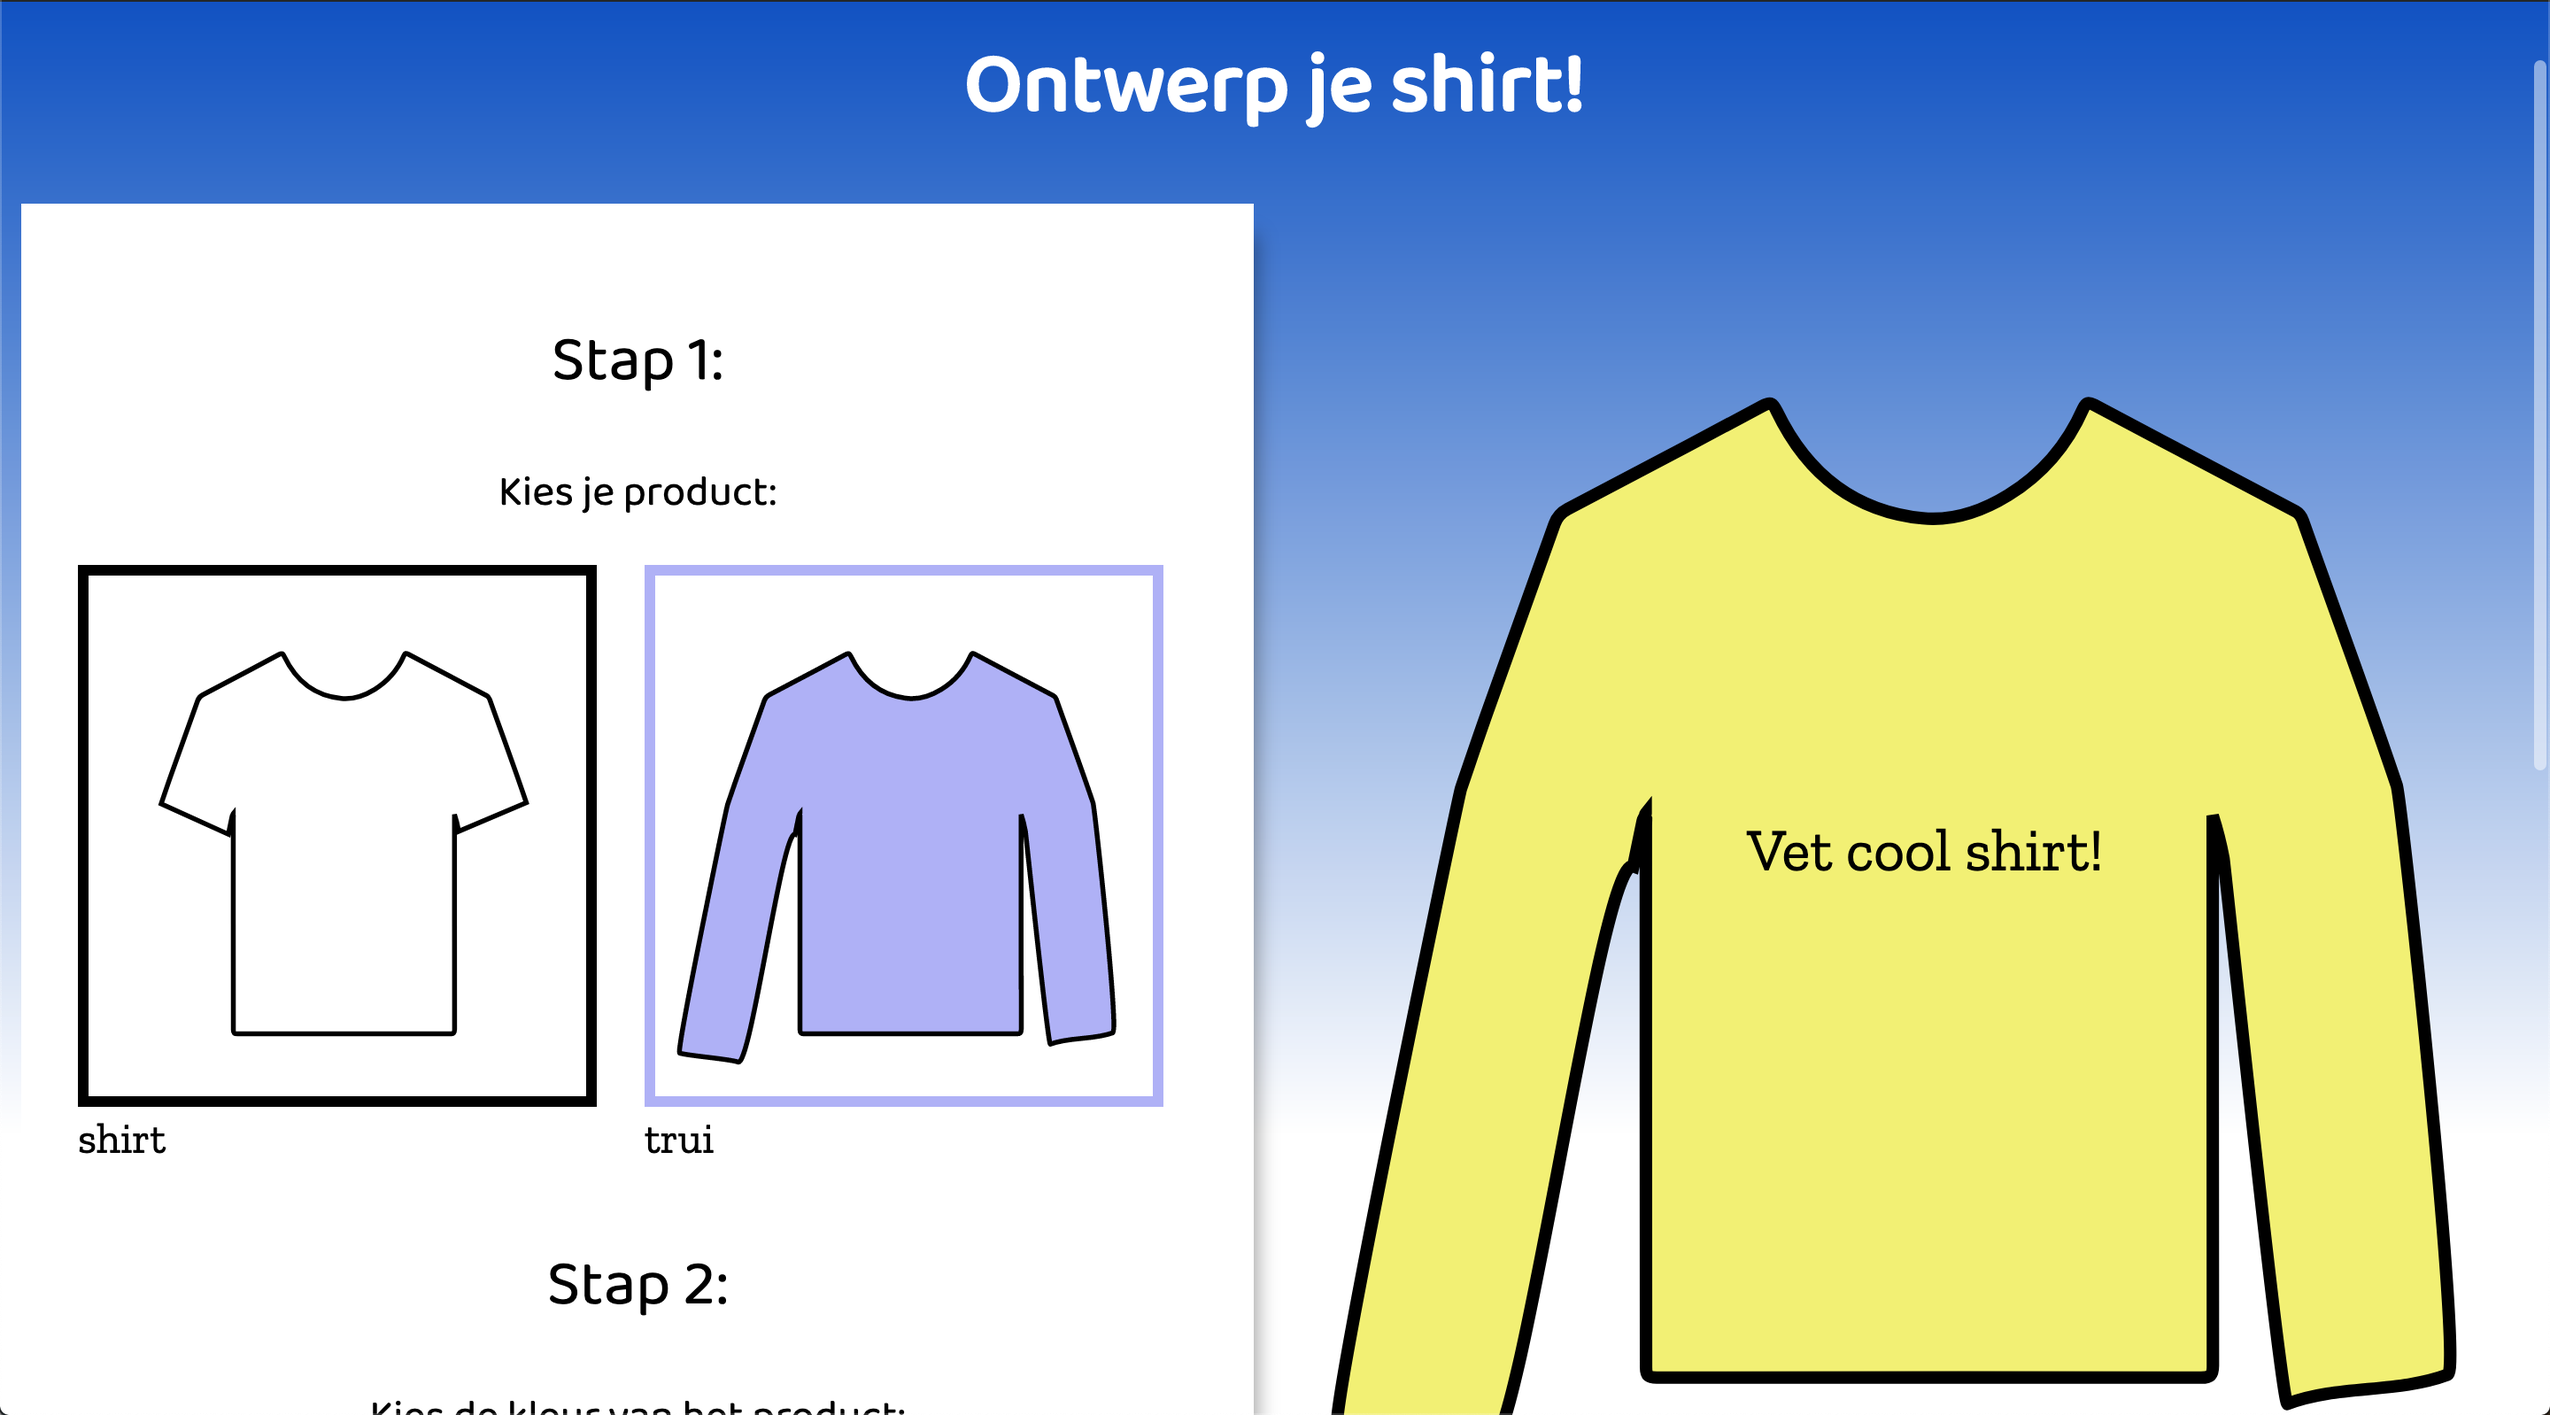
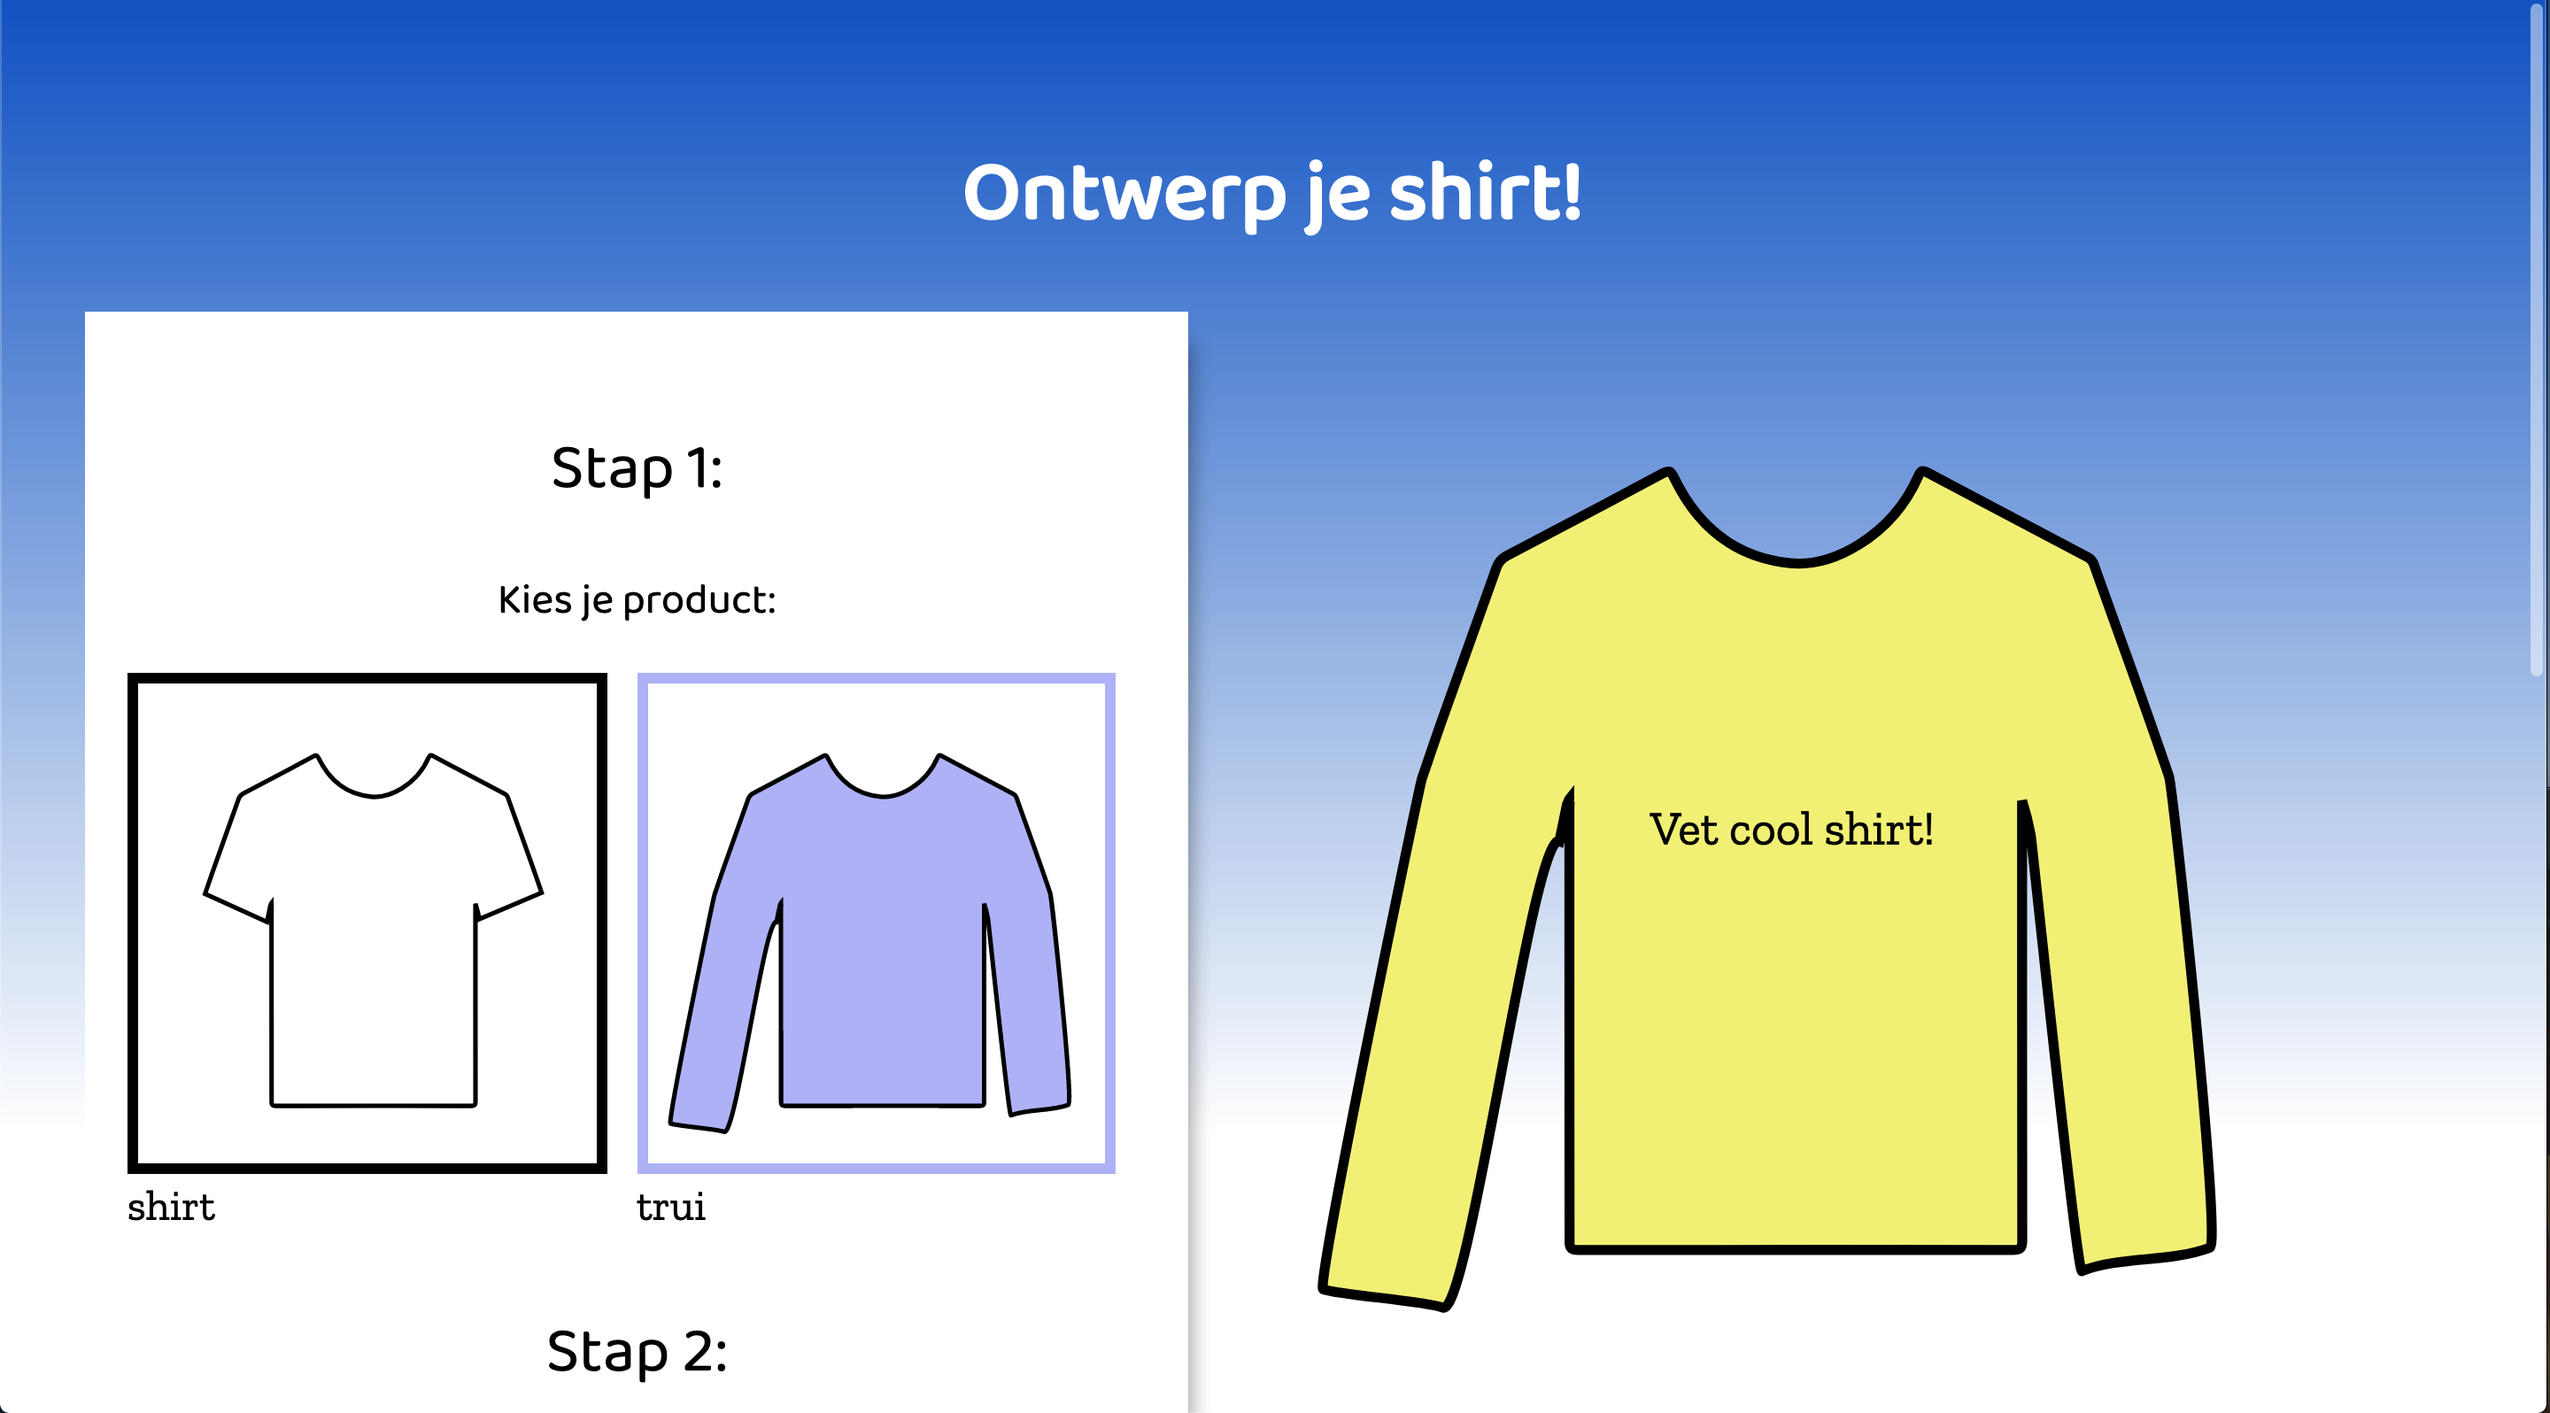
add readme text

diff --git a/public/index.js b/public/index.js
@@ -10,20 +10,19 @@ function jsAvailable() {
 
 // show some styling only when js is activated
 function jsStyling() {
-    const group = document.querySelector('.group')
-    const saveButton = document.querySelector('#save')
-    const orderButton = document.querySelector('#order')
+    var group = document.querySelector('.group')
+    var saveButton = document.querySelector('#save')
+    var orderButton = document.querySelector('#order')
 
     saveButton.style.display = 'none'
     orderButton.style.display = 'none'
 
     group.style.flexWrap = 'nowrap'
-
 }
 
 //window.print() feature detection
 function printAvailable() {
-    const buttons = document.querySelector('.groupButton')
+    var buttons = document.querySelector('.groupButton')
 
     if (typeof window.print != 'undefined') {
         console.log('yeah, we kunnen printen!')
@@ -112,16 +111,16 @@ if (storageAvailable('localStorage')) {
     console.log('Too bad, no localStorage for us')
 
     // when there's no localstorage, show the save button
-    const saveButton = document.querySelector('#save')
+    var saveButton = document.querySelector('#save')
     saveButton.style.display = 'block'
 
 }
 
 // show selected shirt or trui
 function shirtPreview() {
-    const preview = document.querySelector('.preview')
-    const shirt = document.querySelector('.previewShirt')
-    const trui = document.querySelector('.previewTrui')
+    var preview = document.querySelector('.preview')
+    var shirt = document.querySelector('.previewShirt')
+    var trui = document.querySelector('.previewTrui')
 
     preview.style.display = 'initial'
     shirt.style.display = 'block'
@@ -150,8 +149,8 @@ function shirtPreview() {
 
 // Change color of shirt or trui
 function changeColor() {
-    const shirtPreview = document.querySelector('.previewShirt')
-    const truiPreview = document.querySelector('.previewTrui')
+    var shirtPreview = document.querySelector('.previewShirt')
+    var truiPreview = document.querySelector('.previewTrui')
 
     for (i = 0; i < document.querySelectorAll('input[name=stap2]').length; i++) {
         document.querySelectorAll('input[name=stap2]')[i].addEventListener('click', function () {
@@ -207,8 +206,8 @@ function changeText() {
 
 // Change text of shirt or trui
 function changeTextColor() {
-    const textShirt = document.querySelector('#textShirt')
-    const textTrui = document.querySelector('#textTrui')
+    var textShirt = document.querySelector('#textShirt')
+    var textTrui = document.querySelector('#textTrui')
 
     for (i = 0; i < document.querySelectorAll('input[name=stap4]').length; i++) {
         document.querySelectorAll('input[name=stap4]')[i].addEventListener('click', function () {

diff --git a/public/style.css b/public/style.css
@@ -24,7 +24,7 @@ h1 {
 .form,
 .orderConfirmed {
     background-color: white;
-    width: 45%;
+    width: 40%;
     padding: 16px;
     padding: 1em;
     margin: 0 auto;
@@ -67,6 +67,13 @@ label {
     flex-direction: column;
 }
 
+label.shirt,
+label.trui {
+    width: 50%;
+    margin: 0 auto;
+    text-align: center;
+}
+
 #shirt,
 #trui,
 #blauw,
@@ -87,7 +94,8 @@ label {
 /*---add new radio button styling ---*/
 #shirt+svg,
 #trui+svg {
-    width: 90%;
+    margin: 0 auto;
+    width: 70%;
     cursor: pointer;
     border: 4px solid;
     border: 0.25em solid;
@@ -289,7 +297,7 @@ button:focus {
 
 .orderConfirmed {
     align-items: center;
-    width: 60%;
+    width: 40%;
 }
 
 .svg {
@@ -348,7 +356,7 @@ a:focus {
 .previewTrui,
 .previewShirt {
     display: none;
-    width: 100%;
+    width: 80%;
     fill: white;
     -webkit-transition: all 0.3s ease-in-outs;
     transition: all 0.3s ease-in-out;

diff --git a/README.md b/README.md
@@ -2,39 +2,198 @@
 
 //Robuuste, toegankelijke websites ontwerpen en maken …
 
-## Opdracht 2 - Progressive Enhanced Browser Technologie
-
-# Feedback vrijdag 20 maart
-
-link naar [demo](https://monikaas-browser-techt.herokuapp.com/)
-
-Momenteel ben ik bezig met mijn css only laag(nog niet af). Keuzes die je maakt worden wel al opgeslagen.
-
-1. Ik ben nu bezig om met de radio buttons :checked de shirt previews te laten zien, je kan kiezen uit een trui en een shirt. Nu probeer ik ook nog is de kleur aan te passen. Het selecteren van shirt en trui is gelukt, nu probeer ik ook nog is daarboven op er voor te zorgen dat je van beide de kleur kan aanpassen. Graag hoor ik hoe ik dat het beste kan aanpakken.
-2. Bijvoorbeeld bij shirt preview, heeft een screenreader gebruiker geen idee wat hij ziet. Hoe kan ik dat het beste aanpakken? Ik zat zelf te denken om ergens een samenvattende tekst neer te zetten met wat de gebruiker heeft geselecteerd en die dan niet zichtbaar is. Ik vraag mij alleen af of dit de juiste aanpak is
-3. Feedback of mijn html semantisch correct is
-
 # Create your own shirt
 
-Mijn case is het ontwerpen van je eigen shirt met tekst, je moet het kunnen printen, opslaan en een volgende keer dat je de site bezoekt kunnen gebruiken.
+Ontwerp je eigen shirt met tekst, je moet het kunnen printen, opslaan en een volgende keer dat je de site bezoekt weer verder kunnen gaan met waar je was gebleven.
 
-![met afbeelding](docs/img/totnu.png)
+![met afbeelding](docs/img/pleasurable.png)
 
-# wireflow
+# Progressive enhancement
+
+## functional laag
+![functional layer](docs/img/functional.jpg)
+
+In de functional laag gebruik ik alleen html. Het ziet er niet mooi uit, maar hij werkt in alle browsers!
+
+De gebruiker moet de meest basic functionaliteit kunnen uitvoeren. In dit geval een kleur uitkiezen en een tekst invoeren voor het shirt.
+
+ ![functional layer](docs/img/functional2.png)
+De gebruiker kan ook zijn keuzes op de server op slaan en de preview van zijn samen gestelde shirt bekijken.
+
+## usable laag
+In deze laag heb ik css toegevoegd, zodat het voor de gebruiker wat gebruiksvriendelijker wordt. inputs zijn gestijld & css animaties zijn toegevoegd. 
+
+Kwa functionaliteiten werkt het precies nog het zelfde als de functional layer.
+
+![functional layer](docs/img/usable.png)
+
+![functional layer](docs/img/usable2.png)
+
+![functional layer](docs/img/usable3.png)
+
+## pleasurable laag
+
+Gebruiker krijgt meteen een preview te zien, waneer hij iets selecteerd. Je krijgt ook een printkop te zien, als je er op klikt kan je de pagina uit printen. Opslaan knop is weg, want nu wordt alles onchange opgeslagen in localstorage.
+
+Als localstorage niet gesuport wordt, komt de save knop terug.
+
+![functional layer](docs/img/pleasurable.png)
+![pleasurable layer](docs/img/pleasurable2.png)
+
+
+
+# Feature detection
+
+## css
+
+**1. gradients:**
+
+ik maak gebruik van een gradient op de background, [meeste browser ondersteunen dit wel]([https://www.google.com](https://caniuse.com/#feat=css-gradients)). 
+
+Maar als een browser dit niet ondersteunt gebruikt die de fallback naar 1 solide background color.
+```css
+background-color: rgb(9, 78, 197); /*--fallback--*/
+    background-image: linear-gradient(180deg, rgb(9, 78, 197) 0%, rgb(255, 255, 255) 80%);
+```
+
+**2. em value:**
+
+Als values maak ik gebruik van em, dit wordt alleen [niet ondersteunt in hele oude browsers zoals IE 8](https://caniuse.com/#search=rem) 
+
+Om het op te lossen kun je een fallback gebruiken die pixels gebruikt als value.
+
+```css
+font-size: 20px; /*--fallback--*/
+font-size: 1.5em;
+```
+
+**3. custom fonts:**
+
+Voor mijn fonts maak ik gebruik van custom fonts [dit wordt bijvoorbeeld niet ondersteunt door oude browser zoals IE 8 of opera mini](https://caniuse.com/#search=%40font-face) 
+
+**4. overig**
+
+Voor de rest maak ik gebruik van **animaties, transforms, svg styling, flexbox, @media print**. 
+
+Dit is puur voor esthetische redenen, dus maakt het niet veel uit als het niet werkt. De site blijft nog steeds functioneel.
+
+## js
+
+**1. es6**
+
+es6 wordt niet door alle [browser ondersteunt](https://caniuse.com/#search=ECMAScript%202015)
+
+ik heb er daarom voor gezorgd dat alle `const` & `let` omgezet zijn naar `var`
+
+**2. window.print()**
+
+window.print() werkt in veel moderne browser prima, maar er zijn nog [veel browsers waar het niet lekker in gesuport wordt](https://caniuse.com/#search=print). 
+
+De code hieronder kijkt of window.print bestaat:
+
+```js
+if (typeof window.print != 'undefined') {
+        console.log('yeah, we kunnen printen!')
+//voeg code toe print
+    } else {
+        console.log('print functie doet t niet')
+        //voeg code(text) toe die uitlegt hoe de gebruiker wel kan printen
+    }
+```
+
+**3. window.localstorage**
+Localstorage wordt in [hele oude browsers zoals IE 8 niet ondersteunt](https://caniuse.com/#search=localstorage), maar een gebruiker kan dit ook uitgezet hebben. 
+
+Omdat op te lossen kijk ik of de gebruiker localstorage aan heeft staan en als het bestaat, worden de geselecteerde keuzes toegevoegd:
+
+
+```js
+try { // dit stuk heb ik van:  https://developer.mozilla.org/en-US/docs/Web/API/Web_Storage_API/Local_storage
+        var storage = window['localStorage'],
+            x = '__storage_test__'
+        storage.setItem(x, x)
+        storage.removeItem(x)
+        return true
+    } catch (e) {
+        return e instanceof DOMException && (
+                // everything except Firefox
+                e.code === 22 ||
+                // Firefox
+                e.code === 1014 ||
+                // test name field too, because code might not be present
+                // everything except Firefox
+                e.name === 'QuotaExceededError' ||
+                // Firefox
+                e.name === 'NS_ERROR_DOM_QUOTA_REACHED') &&
+            // acknowledge QuotaExceededError only if there's something already stored
+            storage.length !== 0
+    }
+}
+
+if (storageAvailable('localStorage')) {
+    console.log('Yippee! We can use localStorage awesomeness')
+//als er localstorage is voeg de items toe en haal t op
+} else {
+    console.log('Too bad, no localStorage for us')
+    //als er geen localstorage is voeg de save button aan het design toe
+
+}
+```
+
+
+# Accesibility
+
+Hieronder mijn audit op accesibility:
+
+![audit](docs/img/audit.png)
+
+
+**1. kleuren blindheid**
+
+Als je bijvoorbeeld een kleurenblindheid voor blauw hebt, kun je uit het onderstaande voorbeeld het verschil tussen bepaalde kleuren niet goed zien.
+
+Om dit op te lossen heb ik de labels van de kleurvlakken zichtbaar gehouden.
+![kleurenblindheid](docs/img/kleurenblindheid.png)
+
+Ik heb ook geprobeerd om voor zoveel mogelijk contrast te zorgen in de selecties. Mocht een geslecteerd element in de border niet genoeg contrast bieden, heb ik het element ook nog een stukje groter gemaakt.
+
+
+**2. keyboard only**
+
+Om elementen selecterbaar te maken op een keyboard moet je er voor zorgen dat je html semantisch correct is. Ik heb voor selecteerbare elementen alleen maar gebruik gemaakt van `input types` & `buttons`
+
+belangrijk is om custom geselecteerd input elementen met `:focus` te stijlen, zo zie je ook wat je geselecteerd en het maakt de ervaring prettiger om naar te kijken.
+
+**3. screen reader**
+
+Als je alles semantische correct hebt geschreven, moet het voor screenreaders geen probleem zijn om je pagina uit te lezen.
+
+Let alleen wel op met hoe je bepaalde dingen omschrijft. Voor screenreader gebruiks is bijvoorbeeld de tekst: 
+
+`Kies de kleur:` 
+
+niet duidelijk genoeg.
+
+dat heb ik aangepast naar:
+
+`Kies de kleur van het product:` &
+` Kies de tekst kleur:`
+
+Voeg bijvoorbeeld ook een `html lang` attribute toe, zo kan de screenreader zien welke taal de tekst is geschreven.
+
+# wireflows
 
 ![met afbeelding](docs/img/readme/schets1.jpg)
 
 ![met afbeelding](docs/img/readme/schets2.jpg)
 
-## functional/usable/pleasurable
+# To do/wishlist
 
-- **functional**: De gebruiker moet de meest basic functionaliteit kunnen uitvoeren. In dit geval een kleur uitkiezen en een tekst invoeren voor het shirt.
-- **usable**: Css wordt toegevoegd om de ux te verbeteren, gebruiker krijgt feedback wanneer hij iets selecteer. Bijvoorbeeld shirt verandert van kleur als hij een kleur uitkiest.
-- **pleasurable**:Gebruiker hoeft niet meer steeds te scrollen, krijgt een progressbar te zien. Kan op het shirt zelf het tekstvlak vergroten, verkleinen & draaien. Opslaan knop is weg, want nu wordt alles onchange opgeslagen.
-
-## to do:
-
-- [ ] Finish css (input types,buttons etc)
-- [ ] Achtergrond niet genoeg contrast(andere kleuren samenstelling)
-- [ ] nog niet gekekeken naar css fallbacks en in welke browsers wat stuk gaat
-- [ ] css radio button trick ook voor de shirt kleuren
+- [ ] tekst kunnen verkleinen, vergroten etc.
+- [x] printen
+- [x] kleur veranderen van de preview
+- [ ] fixen dat je de preview ook alleen met css kan zien
+- [ ] Voor screen reader gebruikers een optie toevoegen om een lijstje te horen met wat allemaal geselecteerd is
+- [x] tekst kleur aanpassen
+- [x] tekst toevoegen
+- [x] meer contrast toevoegen
